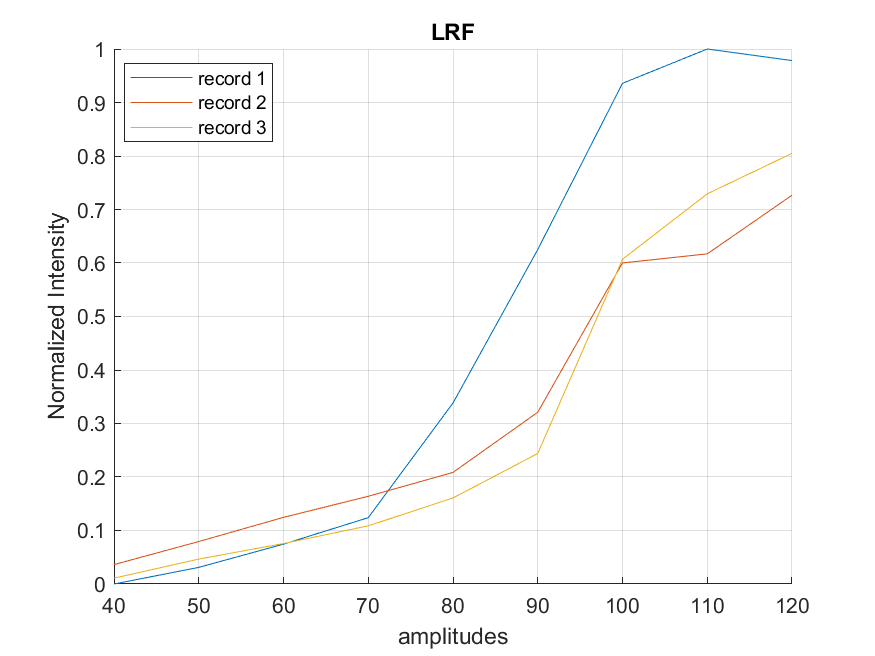
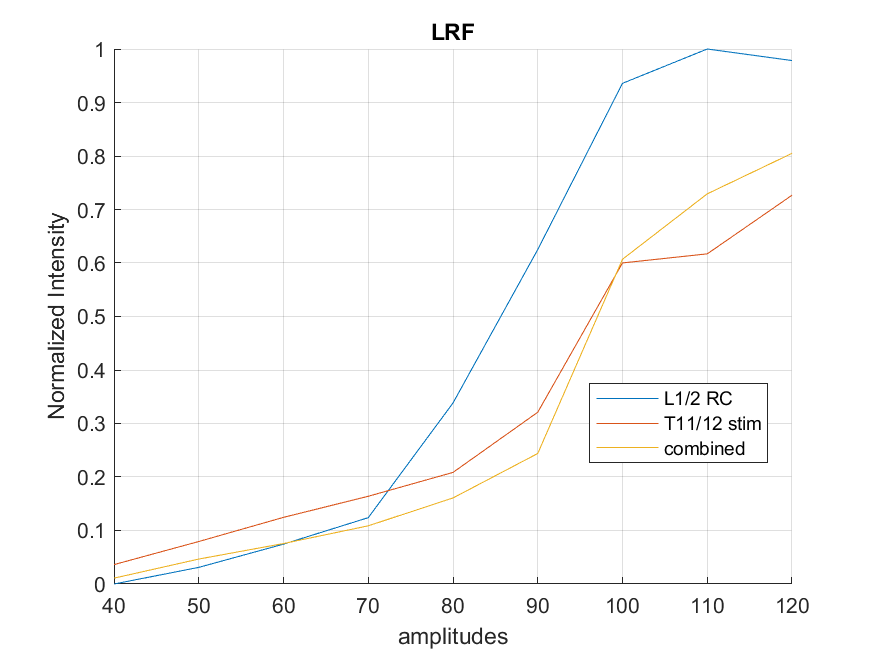
Recruitment Curve Plotting Updated
Now different records are recognized

Changed region(s): [[0.7097, 0.5793, 0.8949, 0.7012], [0.216, 0.0915, 0.3086, 0.2134]]

diff --git a/PlotRC.m b/PlotRC.m
@@ -1,8 +1,6 @@
-function confirmation = PlotRC(data, data_range, repetition, bool_normalize,bool_permuscle)
+function confirmation = PlotRC(data, record_names, bool_normalize,bool_permuscle)
     
     % data: the struct input, should consists of columns str and emg chns
-    % data_range: integer, how many rows should be plotted in one plot ; represents a
-    %series of amplitudes
     % repetition: integer, how many times should I plot the data_range of
     %amplitudes, since I put the amplitudes across 3 trials in the same
     %struct
@@ -24,17 +22,17 @@ function confirmation = PlotRC(data, data_range, repetition, bool_normalize,bool
          str_normalize = "normalized ";
          if ~bool_permuscle
              str_global = "globally";
-             to_normalize = data{:, 2:data_width};
+             to_normalize = data{:, 3:data_width};
             
             % Normalize across all columns as a single unit (min-max normalization)
             normalizedData = (to_normalize - min(to_normalize, [], 'all')) / (max(to_normalize, [], 'all') - min(to_normalize, [], 'all'));
             
             % Assign normalized values back to the table
-            data{:, 2:data_width} = normalizedData;
+            data{:, 3:data_width} = normalizedData;
 
          else 
             str_global = "per muscle";
-            data{:,2:data_width} = normalize(data{:, 2:data_width}, 'range');
+            data{:,3:data_width} = normalize(data{:, 3:data_width}, 'range');
          end
 
         % for col = 2:9
@@ -49,19 +47,20 @@ function confirmation = PlotRC(data, data_range, repetition, bool_normalize,bool
      %%Plotting per muscle 
 
      %New plotting draft
-     %for i = 2:data_width %each column
+     %for i = 3:data_width %each column
      %for r = 1:repetition %each of this will be a line in one graph
 
-     for i = 2:data_width %First, define the columns
+     for i = 3:data_width %First, define the columns
         figure;
         hold on;
         muscle_name = data.Properties.VariableNames{i};
 
-        for r = 1:repetition %Plot each range of data as a separate line
+        for r = 1:length(record_names) %Plot each range of data as a separate line
+            data_range = sum(strcmp(data.record_name, record_names(r)));
             curr_range = (1:data_range) + data_range * (r-1) ;
             x = data{curr_range,1};
             channel = data{curr_range,i}; %TODO: change this so that it just loops through each column
-            plot(x, channel, "DisplayName","record " + r); % DONE: change dispalyname to be the column name
+            plot(x, channel, "DisplayName", record_names(r)); % DONE: change dispalyname to be the column name
         end
         % Customize plot
         title(muscle_name);
@@ -81,12 +80,12 @@ function confirmation = PlotRC(data, data_range, repetition, bool_normalize,bool
      end
 
     else
-     for r = 1:repetition
+     for r = 1:length(record_names)
         %First, extract x-axis (str.values)
         figure;
         hold on;
 
-
+        data_range = sum(strcmp(data.record_name, record_names(r)));
         curr_range = (1:data_range) + data_range * (r-1) ;
         x = data{curr_range,1};
         
@@ -104,7 +103,7 @@ function confirmation = PlotRC(data, data_range, repetition, bool_normalize,bool
             0.1216, 0.4667, 0.7059;  % Blue
         ];
         
-        for i = 2:data_width % TODO: change this st. it just goes through each column one by one
+        for i = 3:data_width % TODO: change this st. it just goes through each column one by one
             channel = data{curr_range,i}; %TODO: change this so that it just loops through each column
             % channel = channel(curr_range);
             plot(x, channel, "DisplayName",data.Properties.VariableNames{i}); % DONE: change dispalyname to be the column name
@@ -112,7 +111,7 @@ function confirmation = PlotRC(data, data_range, repetition, bool_normalize,bool
         % As such, the data structure must treat each channel as a separate object
         
         % Customize plot
-        title(str_normalized + "Recruitment Curve" + r);
+        title(str_normalized + "Recruitment Curve" + record_names(r));
         xlabel('amplitudes');
         if bool_normalize 
             ylabel('Normalized Intensity');
@@ -123,7 +122,7 @@ function confirmation = PlotRC(data, data_range, repetition, bool_normalize,bool
         grid on;
         hold off;
         
-        saveas(gcf, "Output/plot" + r + str_normalize + str_global + ".png");
+        saveas(gcf, "Output/plot" + record_names(r) + str_normalize + str_global + ".png");
         clf; 
      end
 

diff --git a/AutomationDraft.m b/AutomationDraft.m
@@ -190,7 +190,7 @@ fprintf('\n ===== Relevant Data Calculated =====\n\n' );
 
 clearvars lastamp
 
-%% Output Formatting
+%% Data cleaning
 
 fprintf('\n ===== Preparing Output =====\n\n' );
 
@@ -201,38 +201,32 @@ fprintf('\n ===== Preparing Output =====\n\n' );
 channel_names = string({channel_meta(3:10).name});
 
 
-% new struct should be a superstruct with each record as one substruct
 % Assume each amp value has the "record_name" field 
+record_names = string(unique({output.record_name}));
 
-record_names = unique({output.record_name});
 
-newstructr1 = dictionary();
-newstructr2 = dictionary();
 
-for name_idx = 1:length(record_names)
-    newstructr1(record_names{name_idx}) = struct();
-    newstructr2(record_names{name_idx}) = struct();
-end
-%% old output formatting
-% newstructr1 = struct( 'amps', {output.str});
-% newstructr2 = struct( 'amps', {output.str});    
-% 
 
-for name_idx = 1:length(record_names)
-    structr1 = newstructr1(record_names{name_idx});
-    structr2 = newstructr2(record_names{name_idx});
-  for i = 1:numel(output)
+%% Old Data Cleaning
+newstructr1 = struct( 'amps', {output.str});
+newstructr2 = struct( 'amps', {output.str});
+
+
+for i = 1:numel(output)
     output(i).averager1 = output(i).sumr1 / output(i).count;
     output(i).averager2 = output(i).sumr2 / output(i).count;
-
-    structr1()
+    newstructr1(i).("record_name") = output(i).record_name;
+    newstructr2(i).("record_name") = output(i).record_name;
 
     for j = 1:numel(output(i).averager1)
         %store into new struct 
-        structr1(i).(channel_names(j)) = output(i).averager1(j);
-        structr2(i).(channel_names(j)) = output(i).averager2(j);
+        % TODO: add parameters that indicate which fields are needed
+
+        % TODO: add checks to include other information
+
+        newstructr1(i).(channel_names(j)) = output(i).averager1(j);
+        newstructr2(i).(channel_names(j)) = output(i).averager2(j);
     end
-  end
 end 
 
 clearvars x i maxminr1 j 
@@ -266,20 +260,18 @@ fprintf(['\n ===== R2R1 ratio output to ' outrationame ' ===== \n\n'] );
 %% Plotting
 
 %incorporate plotting in the next draft. 
-PlotRC(outr1, 9, 3, 1,1);
+PlotRC(outr1, record_names, 1,1);
+%TODO: render the data range variable obsolete
 
 % Plot each channel separately (for channel in list of channels plot
 % plot(amplitude, channel data) --> this way, channel data (in intensity)
 % will be plotted with each channel representing a different line
-% TODO: make this more intuitive... see other file. 
 
-%% Plot R2R1
-PlotRatioRC(outratio,9,3,0,0);
+% %% Plot R2R1
+% PlotRatioRC(outratio,9,3,0,0);
+% TODO: Incorporate ratio plot into normal RC plot, instead just plotting
+% the outratio file 
 
 
 %% Drafting Ground
-for i = record_names
-    fprintf(i)
-end
-
 % end
